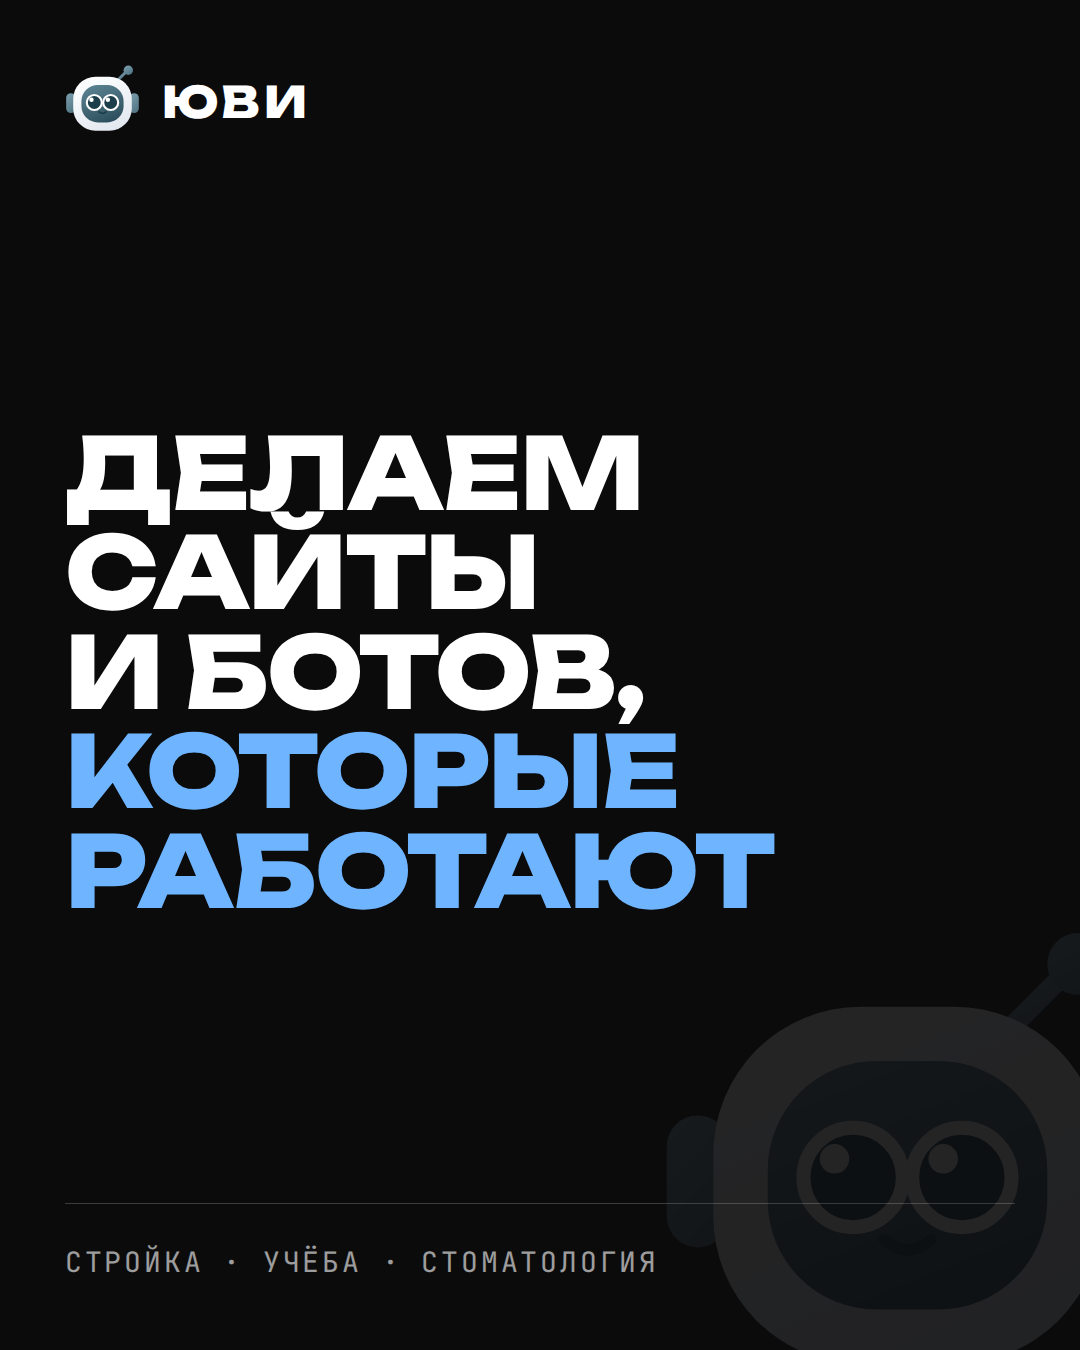
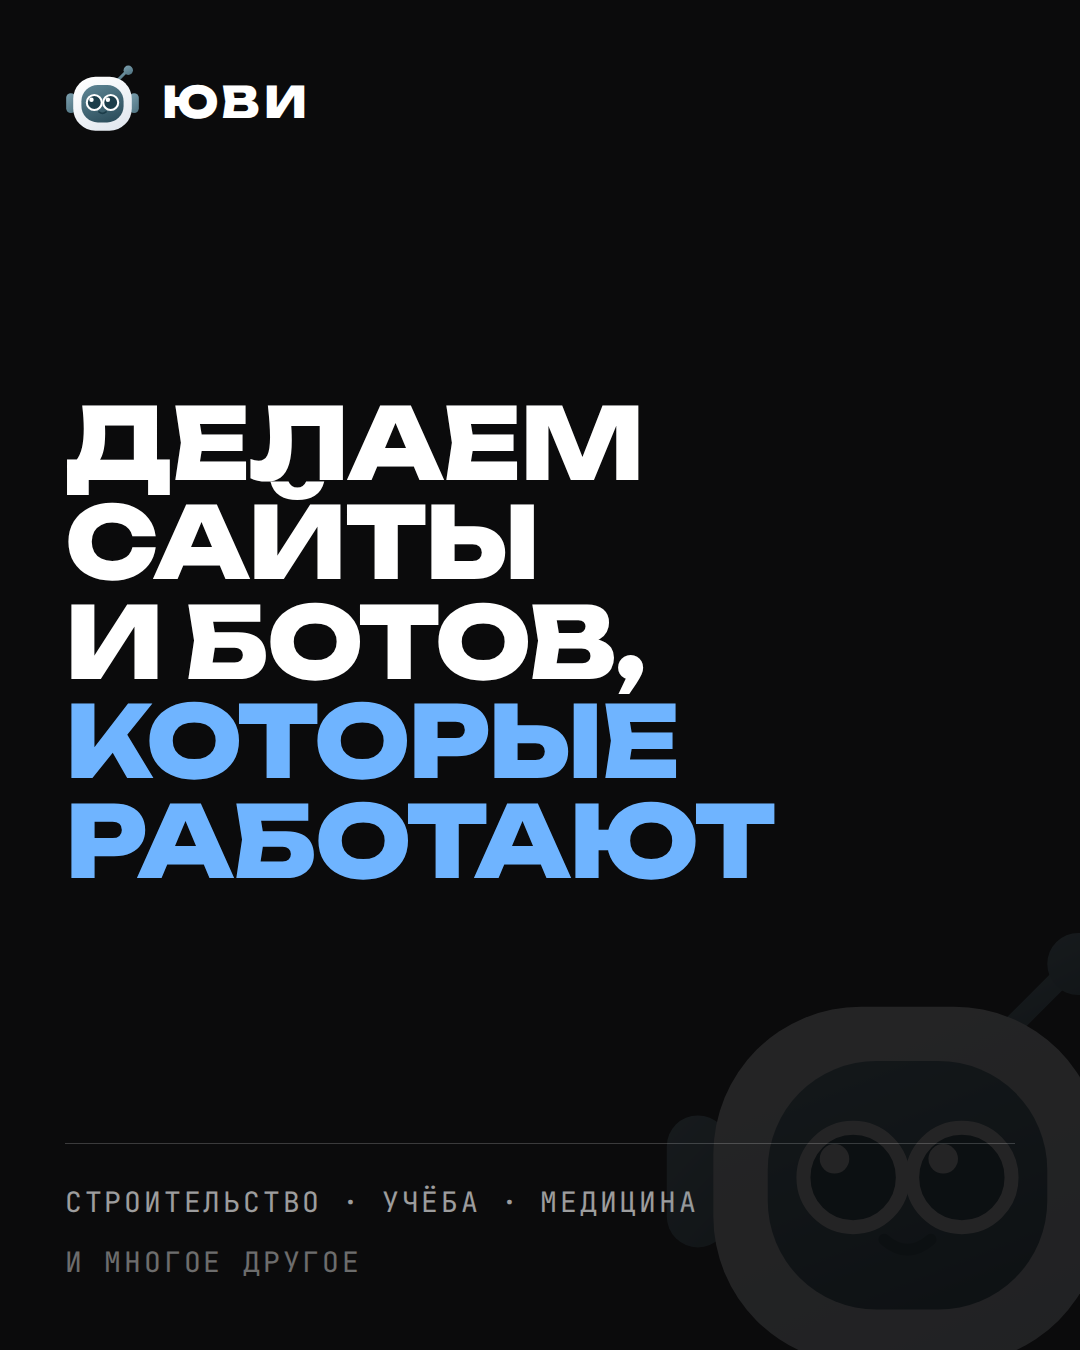
Name the same three niches everywhere
Story 01 and post 01 now read "Строительство · Учёба · Медицина" with
"и многое другое" under it, matching the profile bio. The post's caption
follows. Until now the three places disagreed: the bio said медицина,
the story стоматология, the post стройка.

The posts layout page no longer carries its own copy of the profile
header. It held the older one — prices among the highlights, a launch
time, a different name — and a second copy is what let the texts drift
in the first place; it now points at the page that owns them.

Claude-Session: https://claude.ai/code/session_01WxRaXZSnVUSqXcjtSrgtMU

diff --git a/social/instagram/README.md b/social/instagram/README.md
@@ -35,4 +35,12 @@
 в макетах оставался прежний, с объективом вместо лица. Теперь во всех
 двенадцати, в сторис, на аватарке и на сайте робот один и тот же.
 
+В первом посте ниши названы так же, как в сторис и в шапке профиля:
+«Строительство · Учёба · Медицина» и строкой ниже «и многое другое». Раньше
+там стояли «стройка» и «стоматология» — первое выбивалось по регистру,
+второе сужало нишу до одной специализации.
+
+Шапка профиля описана в `../README.md`, а не здесь: раньше она была и на
+странице-раскладке постов тоже, и через неделю два текста разошлись.
+
 Шрифты в макетах: Unbounded (заголовки), Inter (текст), JetBrains Mono (лейблы).
